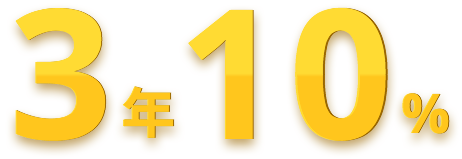
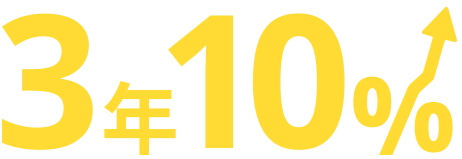
Auto stash before merge of "master" and "origin/master"
更新kv圖 radio position

diff --git a/css/style.css b/css/style.css
@@ -548,7 +548,7 @@ hr {
 .slide_bar {
     position: absolute;
     width: 5px;
-    height: 44vh;
+    height: 50vh;
     background-color: #ffcc04;
     z-index: 5;
     cursor: -webkit-grab;
@@ -588,8 +588,8 @@ hr {
 }
 
 .kv_content img {
-    width: 115px;
-    margin: 9px 3px -9px;
+    width: 119px;
+    margin: 6px 3px -7px;
 }
 
 .kv_content p {
@@ -1296,6 +1296,8 @@ select::-ms-expand {
     position: absolute;
     left: 0;
     top: 7px;
+    /* cursor: pointer; */
+    
 }
 
 .fund_select {
@@ -1303,11 +1305,20 @@ select::-ms-expand {
     width: 100%;
     line-height: 27px;
     padding: 7px 0 7px 30px;
+    
 }
 
 
 .fund_select  input[type="radio"]:checked{
     border: #4ed1d3 solid 1px;
+}
+
+.fund_select label{
+    position: relative;
+    display: inline-block;
+    font-size: 15px;
+    line-height: 27px;
+    cursor: pointer;
 }
 
 .fund_select input[type="radio"]:checked + label:after{
@@ -1318,8 +1329,8 @@ select::-ms-expand {
     position: absolute;
     background: #4ed1d3;
     border-radius: 50%;
-    top: 13px;
-    left: 6px;
+    top: 6px;
+    left: -24px;
 }
 
 
@@ -1644,7 +1655,7 @@ select::-ms-expand {
         margin-left: -143px;
     }
     .slide_bar {
-        height: 26vh;
+        height: 31vh;
         bottom: 160px;
     }
     .circle_01:after, .circle_02:after, .circle_03:after {

diff --git a/index.html b/index.html
@@ -135,7 +135,9 @@
                     <div class="analysis_result">
                         <p class="inline f15">如果</p>
                         <p class="inline years f35 f_green">3</p>
-                        <p class="inline f15">年後，想達成目標，每月請至少投資</p>
+                        <p class="inline f15">年後，想達成目標，</p>
+                        <br class="mb">
+                        <p class="inline f15">每月請至少投資</p>
                         <p class="inline money f35 f_green">10,000</p>
                         <p class="inline f15">元<span class="f_grey f13"> (四捨五入)</span></p>
                     </div> 
